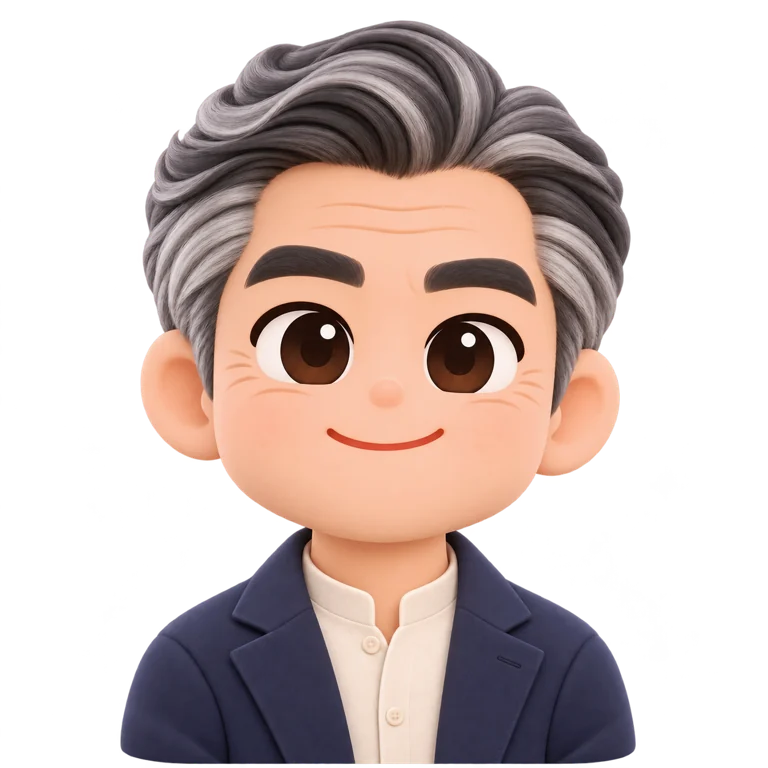
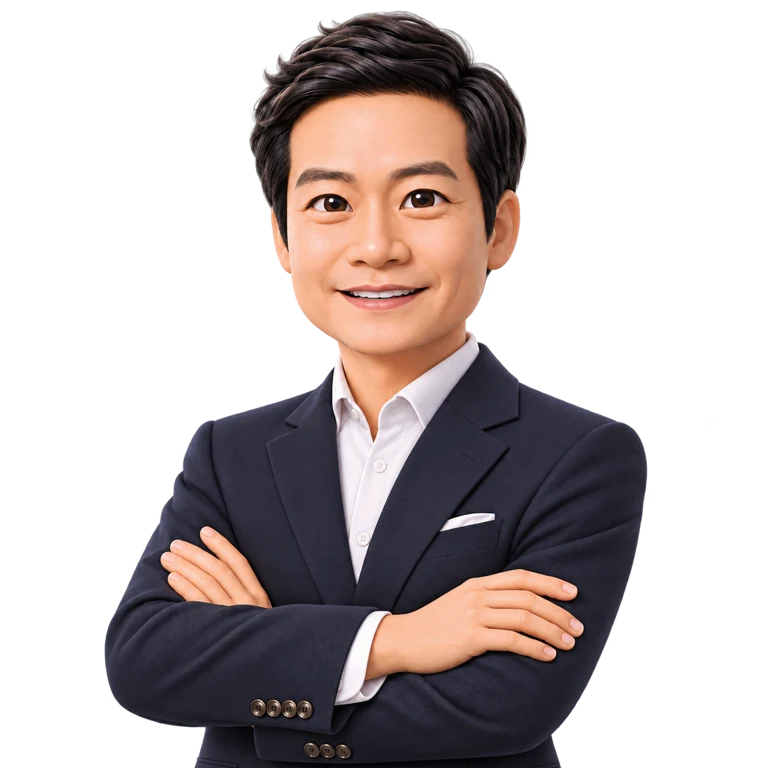
fix: 老雷头像替换为用户图片并统一透明背景

diff --git a/apps/mobile/lib/shared/widgets/assistant_avatar.dart b/apps/mobile/lib/shared/widgets/assistant_avatar.dart
@@ -56,10 +56,9 @@ class AssistantAvatar extends StatelessWidget {
               builder: (context, images, _) => AvatarFrame(
                   size: size,
                   cornerRadius: cornerRadius,
-                  color: images[role] == null &&
-                          isTransparentRoleAvatarAsset(
-                              RoleAvatarStore.assets[role] ??
-                                  assistantAvatarAsset(role))
+                  color: isTransparentRoleAvatarAsset(
+                          RoleAvatarStore.assets[role] ??
+                              assistantAvatarAsset(role))
                       ? Colors.transparent
                       : const Color(0xFFE8F8F2),
                   child: images[role] != null
